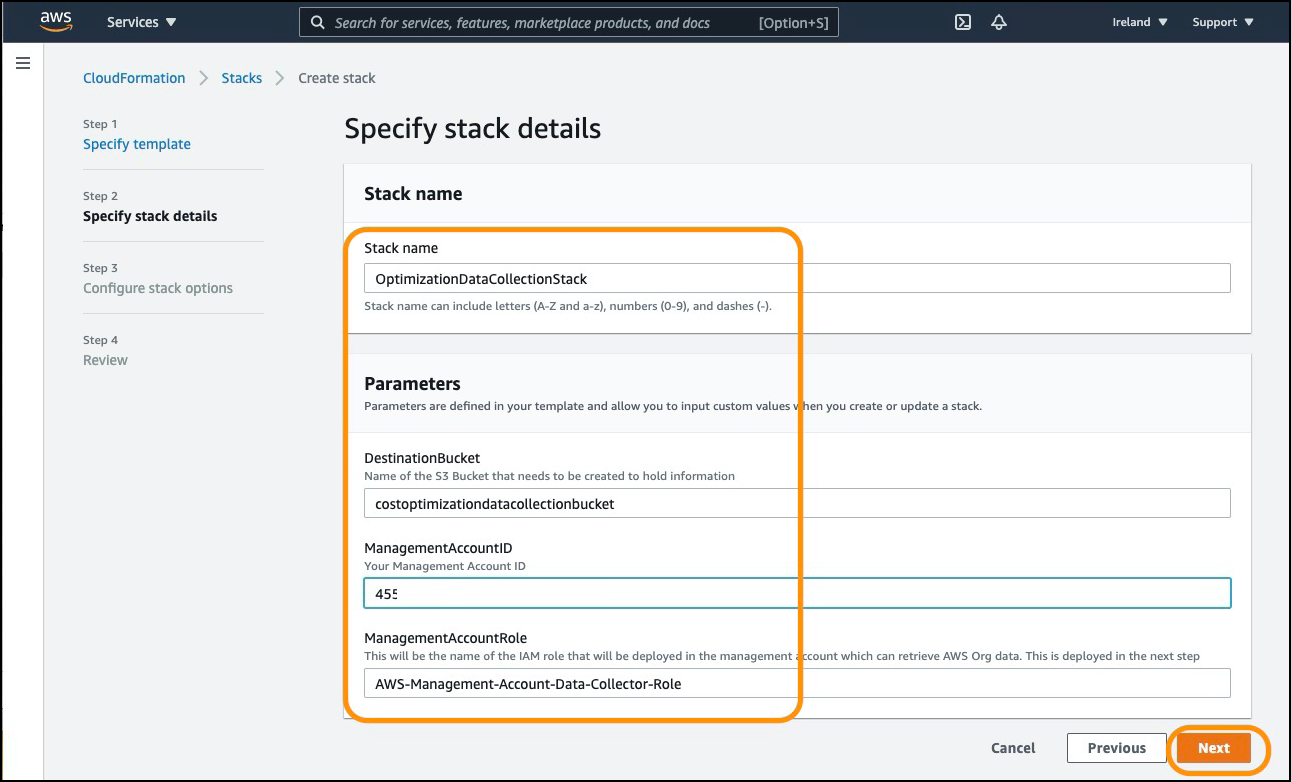
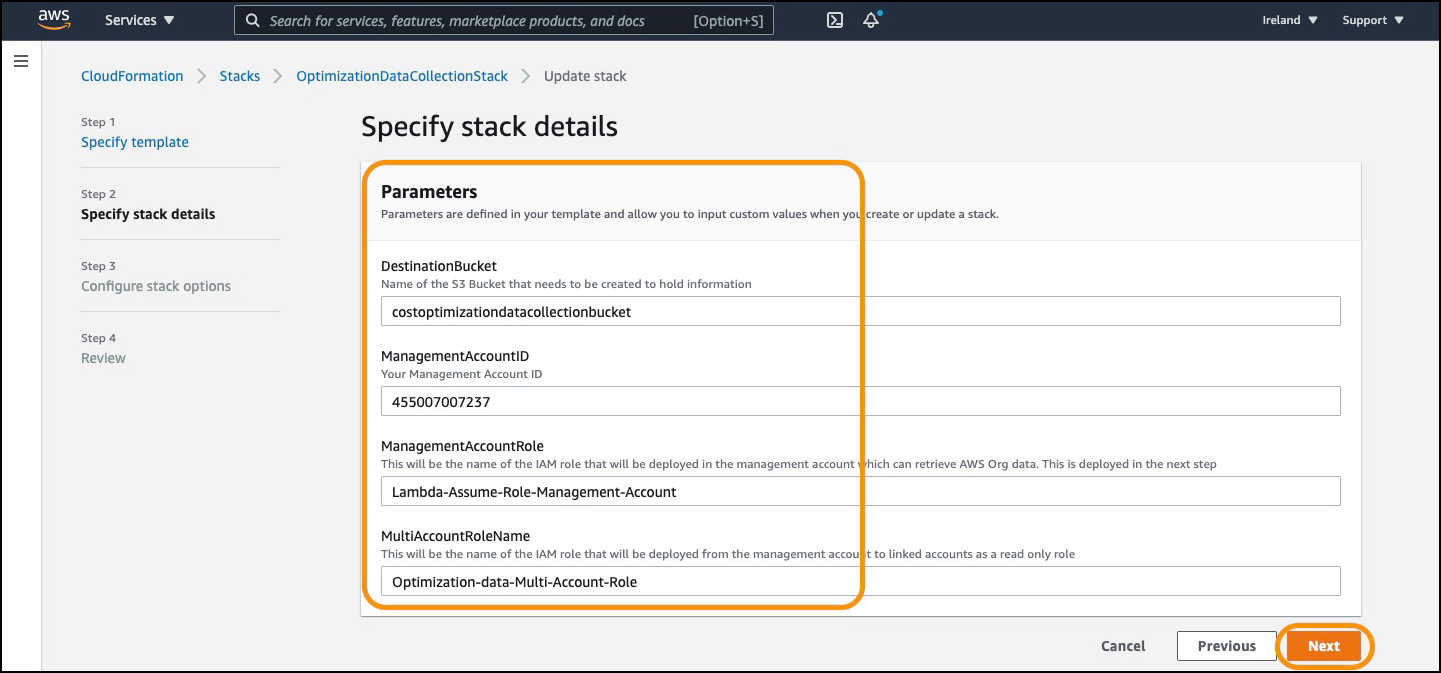
added add roles picture

diff --git a/content/Cost/300_Labs/300_Optimization_Data_Collection/3_Deploy_Data_Collection_Cloud_Formation_Modules.md b/content/Cost/300_Labs/300_Optimization_Data_Collection/3_Deploy_Data_Collection_Cloud_Formation_Modules.md
@@ -6,27 +6,14 @@ weight: 3
 pre: "<b>3. </b>"
 ---
 
-### Add Data Collector Modules
+## Data Modules 
 Now that you have deployed your template and your additional roles you can now start adding modules. Below there are pre made modules you can add to your template. Each set will have the resources and parameters you need along with policy requirements for the roles you made. 
 
+For every module you want you add there are two steps to complete:
+* Update main.yaml with script
+* Update additionalroles.yaml with IAM
 
-
-1. Login via SSO in your Cost Optimization account and search for **Cloud Formation**.
-![Images/cloudformation.png](/Cost/300_Organization_Data_CUR_Connection/Images/cloudformation.png)
-
-2. In your Cost Account under CloudFormation select your **OptimizationDataCollectionStack** 
-
-3. Click **Update** 
-![Images/Update_CF.png](/Cost/300_Optimization_Data_Collection/Images/Update_CF.png)
-
-4. Choose **Edit template in designer** then click **View in Designer**
-![Images/update_in_designer.png](/Cost/300_Optimization_Data_Collection/Images/update_in_designer.png) 
-
-5. In the template box copy your module code and past at the bottom of the template. Then **Click** the upload button on the top left hand corner. 
-![Images/designer_view.png](/Cost/300_Optimization_Data_Collection/Images/designer_view.png) 
-
-
-#### Pre-made modules
+This is what you can add. The steps to do this are afterwards.
 
 {{%expand "RightSize Recommendations" %}}
 
@@ -48,77 +35,29 @@ This solution will collect rightsizing recommendations from AWS Cost Explorer in
 
 * Add to Management Role Policy:
 
-        -  "ce:GetRightsizingRecommendation"
+        - PolicyName: "RightsizeReadOnlyPolicy"
+          PolicyDocument:
+            Version: "2012-10-17"
+            Statement:
+              - Effect: "Allow"
+                Action:
+                  - "ce:GetRightsizingRecommendation"
+                Resource: "*"
+
 {{% /expand%}}
 
 
 
-{{%expand "Static Data Collector" %}}
+{{%expand "Inventory Collector" %}}
 
-### Static Data Collector
-This module is designed to loop through your organizations account and collect data that could be used to find optimization data. It has two components, firstly the AWS accounts collector which used the management role built before. This then passes the account id into an SQS que which then is used as an event in the next component. This section assumes a role into the account the reads the data and places into an S3 bucket and is read into Athena by Glue.  
+### Inventory Collector
+This module is designed to loop through your organizations account and collect data that could be used to find optimization data. It has two components, firstly the AWS accounts collector which used the management role built before. This then passes the account id into an SQS queue which then is used as an event in the next component. This section assumes a role into the account the reads the data and places into an Amazon S3 bucket and is read into AWs Athena by AWS Glue.  
 
 This relies on a role to be available in all accounts in your organization to read this information. The role will need the below access to get the data
 NOTE: CODEBUCKET if deploying in Oregon leave as CodeBucket: aws-well-architected-labs
 
-* Multi Account Policy needed to add to optimisation_read_only_role.yaml:
 
-
-The available resources who's data can be collected are the following:
- * ami
-    
-        - PolicyName: "ImageReadOnlyPolicy"
-          PolicyDocument:
-            Version: "2012-10-17"
-            Statement:
-              - Effect: "Allow"
-                Action:
-                  - "ec2:DescribeImages"
-                Resource: "*"
-
- * ebs
-
-        
-        - PolicyName: "VolumeReadOnlyPolicy"
-          PolicyDocument:
-            Version: "2012-10-17"
-            Statement:
-              - Effect: "Allow"
-                Action:
-                -  "ec2:DescribeVolumeStatus"
-                -  "ec2:DescribeVolumes"
-                Resource: "*"
-
- * snapshot
-
-        - PolicyName: "SnapshotsReadOnlyPolicy"
-          PolicyDocument:
-            Version: "2012-10-17"
-            Statement:
-              - Effect: "Allow"
-                Action:
-                - "ec2:DescribeSnapshots"
-                - "ec2:DescribeSnapshotAttribute"
-                Resource: "*"
-        
-
-
-* ta
-        - PolicyName: "TAPolicy"
-          PolicyDocument:
-            Version: "2012-10-17"
-            Statement:
-              - Effect: "Allow"
-                Action:
-                - "trustedadvisor:*"
-                - "support:DescribeTrustedAdvisorChecks"
-                - "support:DescribeTrustedAdvisorCheckResult"
-                Resource: "*"
-        
-
-
-* CloudFormation to add:
-
+* CloudFormation to add to Optimization_Data_Collector.yaml:
 
         Parameters:
             MultiAccountRoleName:
@@ -151,6 +90,110 @@ The available resources who's data can be collected are the following:
                       TaskQueuesUrl: !Sub "${DataStackMulti.Outputs.SQSUrl}"
 
 
+* Multi Account Policy needed to add to optimisation_read_only_role.yaml:
+
+These are the resources which can be collected:
+ * Amazon Machine Images
+    
+        - PolicyName: "ImageReadOnlyPolicy"
+          PolicyDocument:
+            Version: "2012-10-17"
+            Statement:
+              - Effect: "Allow"
+                Action:
+                  - "ec2:DescribeImages"
+                Resource: "*"
+
+ * Amazon Elastic Block Store (EBS)
+
+        
+        - PolicyName: "VolumeReadOnlyPolicy"
+          PolicyDocument:
+            Version: "2012-10-17"
+            Statement:
+              - Effect: "Allow"
+                Action:
+                -  "ec2:DescribeVolumeStatus"
+                -  "ec2:DescribeVolumes"
+                Resource: "*"
+
+ * Amazon EBS snapshots
+
+        - PolicyName: "SnapshotsReadOnlyPolicy"
+          PolicyDocument:
+            Version: "2012-10-17"
+            Statement:
+              - Effect: "Allow"
+                Action:
+                - "ec2:DescribeSnapshots"
+                - "ec2:DescribeSnapshotAttribute"
+                Resource: "*"
+        
+
+
+{{% notice note %}}
+The AccountCollector module is reusable and only needs to be added once but multiple ques can be added too TaskQueuesUrl
+{{% /notice %}}
+
+{{% /expand%}}
+
+
+{{%expand "Inventory Collector" %}}
+
+###  Trusted Advisor
+This module will retrieve all AWS Trusted Advisor recommendations from all your linked account. 
+NOTE: CODEBUCKET if deploying in Oregon leave as CodeBucket: aws-well-architected-labs
+
+
+* CloudFormation to add to Optimization_Data_Collector.yaml:
+
+
+        Parameters:
+            MultiAccountRoleName:
+            Type: String
+            Description: Name of the IAM role deployed in all accounts which can retrieve AWS Data.
+            Default: OPTICS-Assume-Role-Management-Account
+
+
+        Resource:
+             TrustedAdvisor:
+                Type: AWS::CloudFormation::Stack
+                Properties:
+                  TemplateURL:  "https://aws-well-architected-labs.s3.us-west-2.amazonaws.com/Cost/Labs/300_Optimization_Data_Collection/lambda_data.yaml"
+                  TimeoutInMinutes: 2
+                  Parameters:
+                      DestinationBucket: !Ref S3Bucket
+                      DestinationBucketARN: !GetAtt S3Bucket.Arn 
+                      Prefix: "ta"
+                      CFDataName: "TA"
+                      GlueRoleARN: !GetAtt GlueRole.Arn
+                      MultiAccountRoleName: !Ref MultiAccountRoleName
+                      CodeBucket: !Ref CodeBucket
+            AccountCollector:
+                Type: AWS::CloudFormation::Stack
+                Properties:
+                  TemplateURL: "https://aws-well-architected-labs.s3.us-west-2.amazonaws.com/Cost/Labs/300_Optimization_Data_Collection/get_accounts.yaml"
+                  TimeoutInMinutes: 2
+                  Parameters:
+                      RoleARN: !Sub "arn:aws:iam::${ManagementAccountID}:role/${ManagementAccountRole}"
+                      TaskQueuesUrl: !Sub "${DataStackMulti.Outputs.SQSUrl}"
+
+
+
+* Multi Account Policy needed to add to optimisation_read_only_role.yaml:
+     
+          - PolicyName: "TAPolicy"
+            PolicyDocument:
+              Version: "2012-10-17"
+              Statement:
+                - Effect: "Allow"
+                  Action:
+                  - "trustedadvisor:*"
+                  - "support:DescribeTrustedAdvisorChecks"
+                  - "support:DescribeTrustedAdvisorCheckResult"
+                  Resource: "*"
+          
+
 {{% notice note %}}
 The AccountCollector module is reusable and only needs to be added once but multiple ques can be added too TaskQueuesUrl
 {{% /notice %}}
@@ -165,7 +208,7 @@ The AccountCollector module is reusable and only needs to be added once but mult
 The Compute Optimizer Service **Currently this data only lasts** and does not show historical information. In this module the data will be collected and placed into S3 and read by athena so you can view the recommendations over time and have access to all accounts recommendations in one place. This can be accessed through the Management Account. 
 NOTE: CODEBUCKET if deploying in Oregon leave as CodeBucket: aws-well-architected-labs
 
-* CloudFormation to add:
+* CloudFormation to add to Optimization_Data_Collector.yaml:
 
                 COCDataStack:
                     Type: AWS::CloudFormation::Stack
@@ -224,7 +267,7 @@ The AccountCollector module is reusable and only needs to be added once but mult
 
 ## ECS Chargeback
 
-* CloudFormation to add:
+* CloudFormation to add to Optimization_Data_Collector.yaml:
 
                 ECSStack:
                     Type: AWS::CloudFormation::Stack
@@ -279,7 +322,7 @@ The AccountCollector module is reusable and only needs to be added once but mult
 ## RDS Utilization
 The module will collect RDS Cloudwatch metrics from your accounts. Using this data you can identify possible underutilized instances. 
 
-* CloudFormation to add:
+* CloudFormation to add to Optimization_Data_Collector.yaml:
 
             RDSMetricsStack:
             Type: AWS::CloudFormation::Stack
@@ -348,30 +391,59 @@ The module will collect RDS Cloudwatch metrics from your accounts. Using this da
 
 {{% /expand%}}
 
+
+### How to Update Optimization Stack
+1. Login via SSO in your Cost Optimization account and search for **Cloud Formation**.
+![Images/cloudformation.png](/Cost/300_Organization_Data_CUR_Connection/Images/cloudformation.png)
+
+2. In your Cost Account under CloudFormation select your **OptimizationDataCollectionStack** 
+
+3. Click **Update** 
+![Images/Update_CF.png](/Cost/300_Optimization_Data_Collection/Images/Update_CF.png)
+
+4. Choose **Edit template in designer** then click **View in Designer**
+![Images/update_in_designer.png](/Cost/300_Optimization_Data_Collection/Images/update_in_designer.png) 
+
+5. In the template box copy your module code and past at the bottom of the template. Then **Click** the upload button on the top left hand corner.  
+**You can did the necessary code above in the Data Modules.**
+![Images/designer_view.png](/Cost/300_Optimization_Data_Collection/Images/designer_view.png) 
+
 6. This will take you back to the upload section. Click **Next** and follow the same process you did on the initial setup. 
 ![Images/Update_stack.png](/Cost/300_Optimization_Data_Collection/Images/Update_stack.png) 
 
-### Update Role
 
-1. To add the IAM Policy rule to the IAM Roles created in section 2, then go to your management account.
+### How to Update Roles
+The IAM Roles created in the pervious section need to be update with the relevant permissions. Depending on the module, you will need to add the permissions to either the management role or the role created in the stack set. In the pre made modules this will be specified. 
 
-2. In either your Management.yaml or optimisation_read_only_role.yaml files (depending on the module) copy the permissions and to the Management-Account-permissions section under actions e.g.
+1. Login via SSO in your Management account and search for **Cloud Formation**
+![Images/cloudformation.png](/Cost/300_Organization_Data_CUR_Connection/Images/cloudformation.png)
 
-        - PolicyName: "Example policy"
-          PolicyDocument:
-            Version: "2012-10-17"
-            Statement:
-              - Effect: "Allow"
-                Action:
-                  - <required actions>
-                Resource: "*"
+### How to Update Role Management.yaml
+2. Select the **OptimizationManagementDataRoleStack** and click **Update**
+![Images/Update_man_role.png](/Cost/300_Optimization_Data_Collection/Images/Update_man_role.png)  
 
 
+3. Select **Edit template in designer** then **View in Designer**
+![Images/Edit_template_man_role.png](/Cost/300_Optimization_Data_Collection/Images/Edit_template_man_role.png)  
 
+4. Copy the IAM permission code from the module section above. In Designer in the template section past the code just above the output section. Click the Upload button in the top corner.
+![Images/Update_man_role_design.png](/Cost/300_Optimization_Data_Collection/Images/Update_man_role_design.png)  
 
-3. In the console follow the same process as above to update your cloudformation stack.
+5. Click Next and keep everything to default till deployed
 
+### How to Update Role optimisation_read_only_role.yaml
 
+2. Copy the IAM permission code from the module section above. In your local copy of the optimisation_read_only_role.yaml file add it to the bottom. 
+
+3. In Cloudformation click on the hamburger icon on the side panel on the left hand side of the screen and select **StackSets**. 
+
+4. Select the **OptimizationDataRoleStack**. Click Actions, Edit StackSet Details
+![Images/Update_SS.png](/Cost/300_Optimization_Data_Collection/Images/Update_SS.png)  
+
+5. Select **Replace current template**, **Upload a template file** then **Choose file** with you local copy of the optimisation_read_only_role.yaml file
+![Images/Update_SS_File.png](/Cost/300_Optimization_Data_Collection/Images/Update_SS_File.png)  
+
+6. Click Next and keep everything to default till deployed
 
 ## Testing Lambdas 
 

diff --git a/content/Cost/300_Labs/300_Optimization_Data_Collection/_index.md b/content/Cost/300_Labs/300_Optimization_Data_Collection/_index.md
@@ -16,15 +16,21 @@ June 2021
 If you wish to provide feedback on this lab, there is an error, or you have a suggestion, please email: costoptimization@amazon.com
 
 ## Introduction
-When reviewing costs in AWS it important to have all the data you need in one place. Following on from the Cost and Usage Report setup, which you can see in the [100_1_AWS_Account_Setup]({{< ref "/Cost/100_Labs/100_1_AWS_Account_Setup" >}}) lab,  this lab will give you a template of how you can pull your own sets of data as well as some pre made modules to help collect data for optimization and chargeback. Using either CloudFormation or Terraform the modules will follow the structure of using an AWS Lambda function to extract the data, then this will then be place into Amazon S3. From there, Amazon Athena will be able to read this data using a glue crawler to produce a table that can be utilise and even connected to your AWS Cost & Usage Report to enrich it. 
+This lab is designed to enable you to collect utilization data from different service to help you identify optimization opportunities. This lab will give you pre made modules to collect data and show you how to pull your own sets of data. In the CloudFormation modules we will follow the structure of using an AWS Lambda function to extract the data, then this will be placed into Amazon S3. From there, Amazon Athena will be able to read this data using a AWS Glue Crawler to produce a table that can be utilize and even connected to your AWS Cost & Usage Report to enrich it. 
+
+The three main styles of data are:
+* Optimizing and rightsize recommendations 
+* inventory of services
+* Utilization metrics of resources 
 
 ## Architecture 
 
 ![Images/Arc.png](/Cost/300_Optimization_Data_Collection/Images/Arc.png)
 
 ## Goals
-- Deploy resources that will be reused in multiple modules
+- Deploy main resources which will be used by the modules
 - Deploy modules to collect data 
+- Retrieve optimization data 
 
 
 ## Prerequisites
@@ -67,8 +73,5 @@ Be able to create the below in a sub account where your CUR data is accessible:
 ## Steps:
 {{% children  /%}}
 
-{{% notice tip %}}
-TBC
-{{% /notice %}}
 
 {{< prev_next_button link_next_url="./1_create_static_resources_source/" button_next_text="Start Lab" first_step="true" />}}

diff --git a/content/Cost/300_Labs/300_Optimization_Data_Collection/1_Deploy_Main_Resources.md b/content/Cost/300_Labs/300_Optimization_Data_Collection/1_Deploy_Main_Resources.md
@@ -11,9 +11,6 @@ pre: "<b>1. </b>"
 The first step is to create a set of reusable resources that can be passed into the other modules. 
 
 
-{{%expand "Click here to continue with the CloudFormation  Setup" %}}
-
-
 1.  Click [Launch CloudFormation Template](https://console.aws.amazon.com/cloudformation/home#/stacks/new?&templateURL=https://aws-well-architected-labs.s3-us-west-2.amazonaws.com/Cost/Labs/300_Optimization_Data_Collection/Optimization_Data_Collector.yaml) if you are deploying to your linked account (recommended)
 
 Or if you wish to keep this on your local machine please copy the below and deploy how you would normally:
@@ -23,7 +20,7 @@ Or if you wish to keep this on your local machine please copy the below and depl
         Parameters:
         DestinationBucket:
             Type: String
-            Description: Name of the S3 Bucket that needs to be created to hold information
+            Description: Name of the S3 Bucket that needs to be created to hold information. This will be combined with account id to make unique. 
             AllowedPattern: (?=^.{3,63}$)(?!^(\d+\.)+\d+$)(^(([a-z0-9]|[a-z0-9][a-z0-9\-]*[a-z0-9])\.)*([a-z0-9]|[a-z0-9][a-z0-9\-]*[a-z0-9])$)
             Default: optimizationdatacollectionbucket
         ManagementAccountRole: 
@@ -97,10 +94,6 @@ Or if you wish to keep this on your local machine please copy the below and depl
 {{% notice note %}}
 We will edit this template in designer in the AWS Console. If you wish to keep a version locally then download and manage how you would normally. 
 {{% /notice %}}
-
-
-
-{{% /expand%}}
 
 
 {{< prev_next_button link_prev_url="../" link_next_url="../2_Additional_Roles/" />}}
